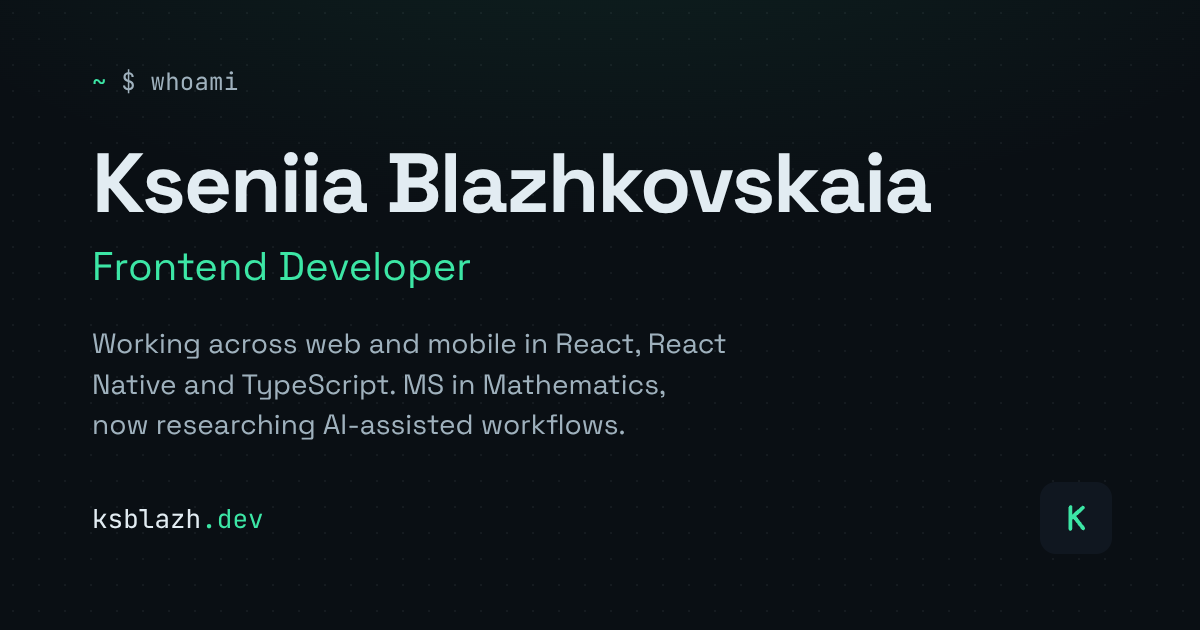
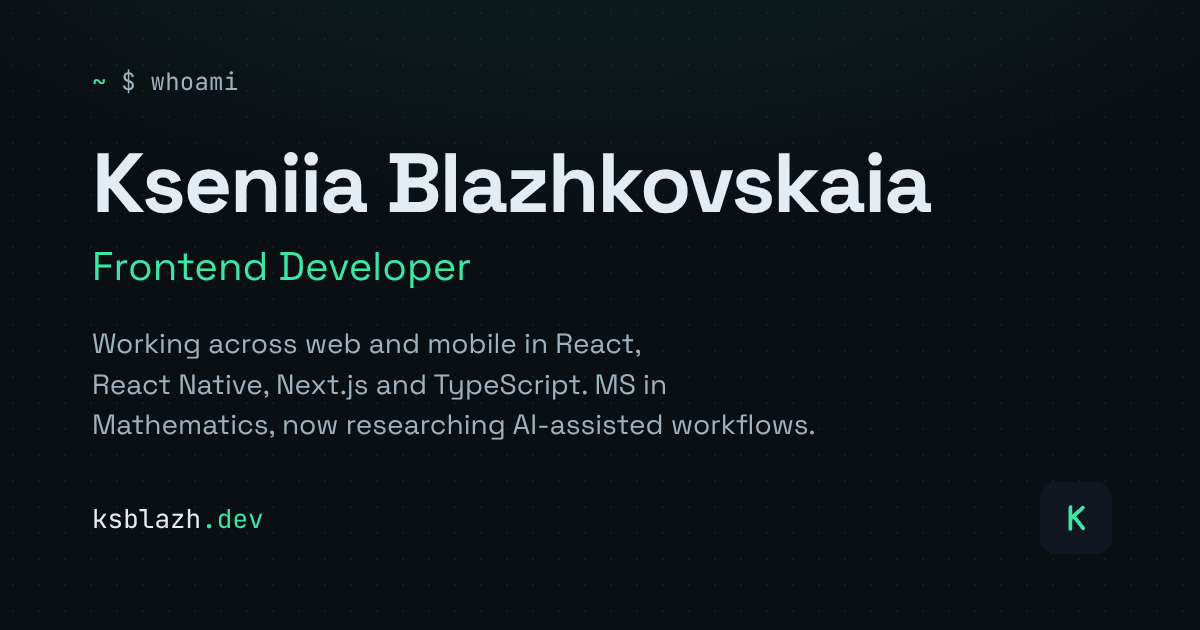
Put Next.js in the two lines people read first (#9)
The resume added it to the summary; the site had it only in the skills
list. The tagline is the line under the name, and it also feeds the meta
description and the OpenGraph description, so anyone receiving the link
saw a card that never mentioned it.

The tagline is baked into the social card as pixels, so the card is
redrawn from the same fonts and tokens, with its alt text replaced to
match.

Changed region(s): [[0.0617, 0.6635, 0.6783, 0.6937], [0.0617, 0.573, 0.555, 0.6333], [0.5242, 0.5127, 0.6167, 0.573]]

diff --git a/src/app/page.tsx b/src/app/page.tsx
@@ -257,15 +257,15 @@ export default function Home() {
           </Reveal>
           <Reveal>
             <p className="mt-8 max-w-prose leading-relaxed">
-              Web and mobile, in React, React Native and TypeScript. A web
-              studio first, then freelance. Built a landlord and tenant portal
-              from scratch at the studio and coordinated a development team
-              there. Delivered dozens of client sites and internal systems end
-              to end on freelance. BS and MS in Mathematics, with an emphasis
-              on mathematical logic and theory of algorithms. Now pursuing an
-              MSCS (AI) at Westcliff University, Orlando, researching LLM
-              tooling and agentic development with the Claude API and Claude
-              Code.
+              Web and mobile, in React, React Native, Next.js and
+              TypeScript. A web studio first, then freelance. Built a
+              landlord and tenant portal from scratch at the studio and
+              coordinated a development team there. Delivered dozens of
+              client sites and internal systems end to end on freelance.
+              BS and MS in Mathematics, with an emphasis on mathematical
+              logic and theory of algorithms. Now pursuing an MSCS (AI) at
+              Westcliff University, Orlando, researching LLM tooling and
+              agentic development with the Claude API and Claude Code.
             </p>
           </Reveal>
         </section>

diff --git a/src/lib/site.ts b/src/lib/site.ts
@@ -7,7 +7,7 @@ export const site = {
   name: "Kseniia Blazhkovskaia",
   role: "Frontend Developer",
   tagline:
-    "Working across web and mobile in React, React Native and TypeScript. MS in Mathematics, now researching AI-assisted workflows.",
+    "Working across web and mobile in React, React Native, Next.js and TypeScript. MS in Mathematics, now researching AI-assisted workflows.",
   email: "ksblazh@gmail.com",
   github: "https://github.com/ksblazh",
   repo: "https://github.com/ksblazh/ksblazh-dev",
